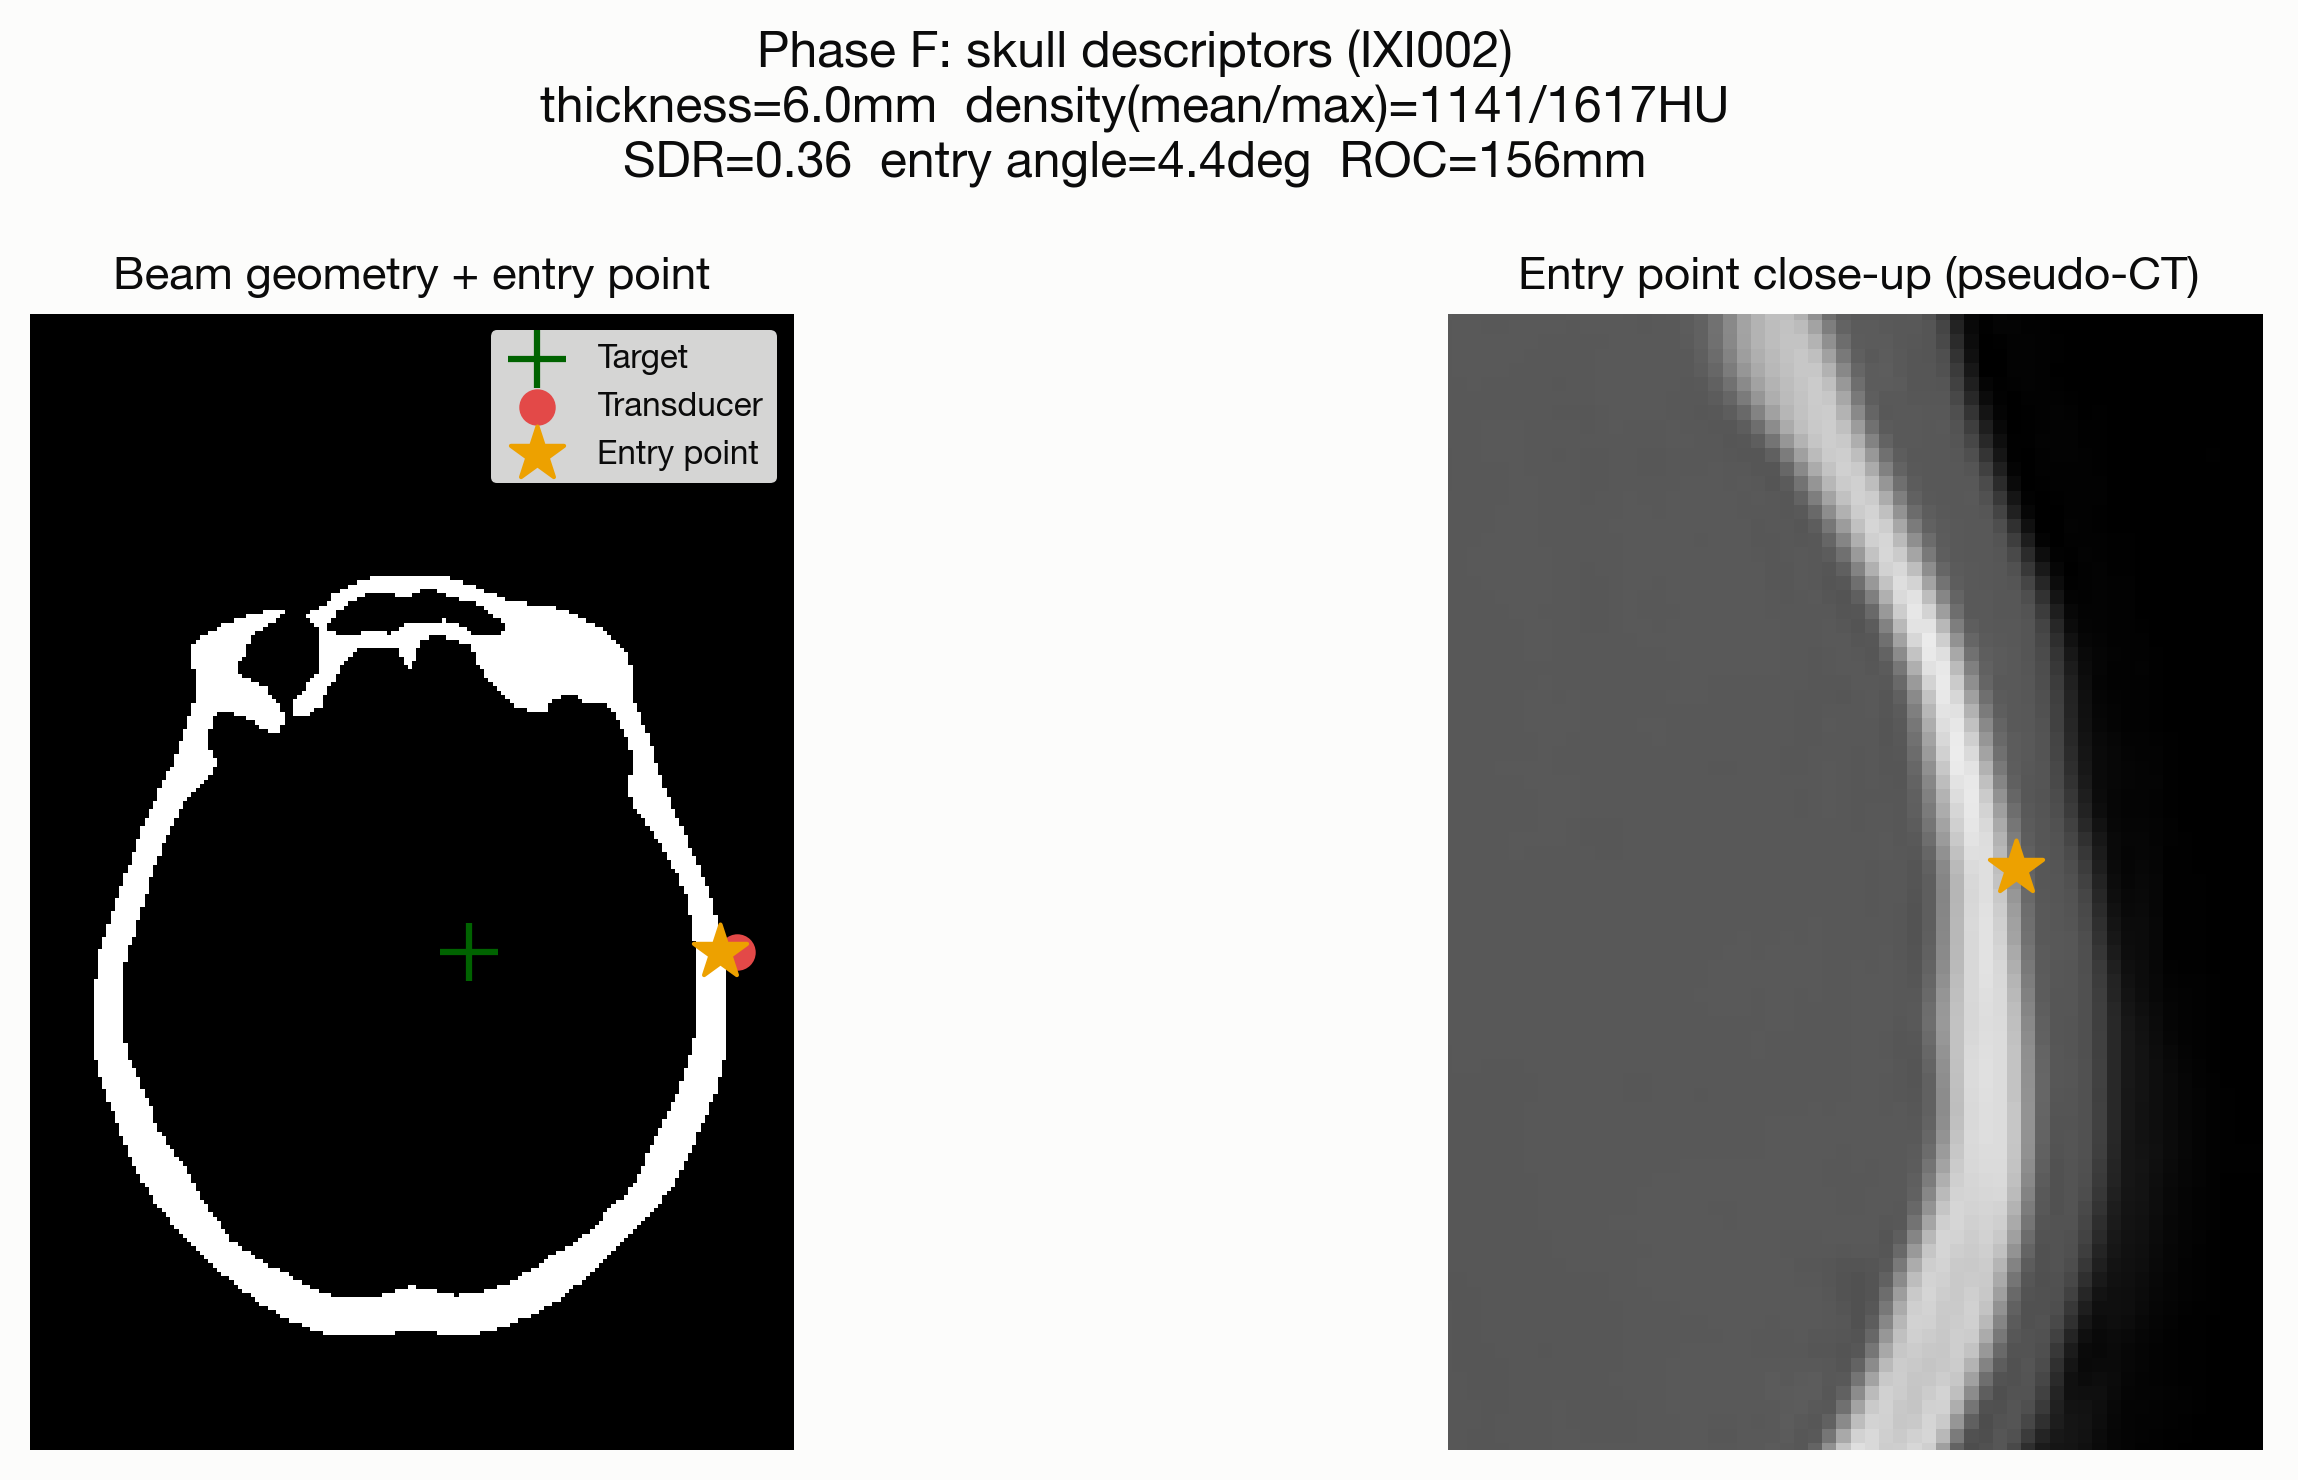
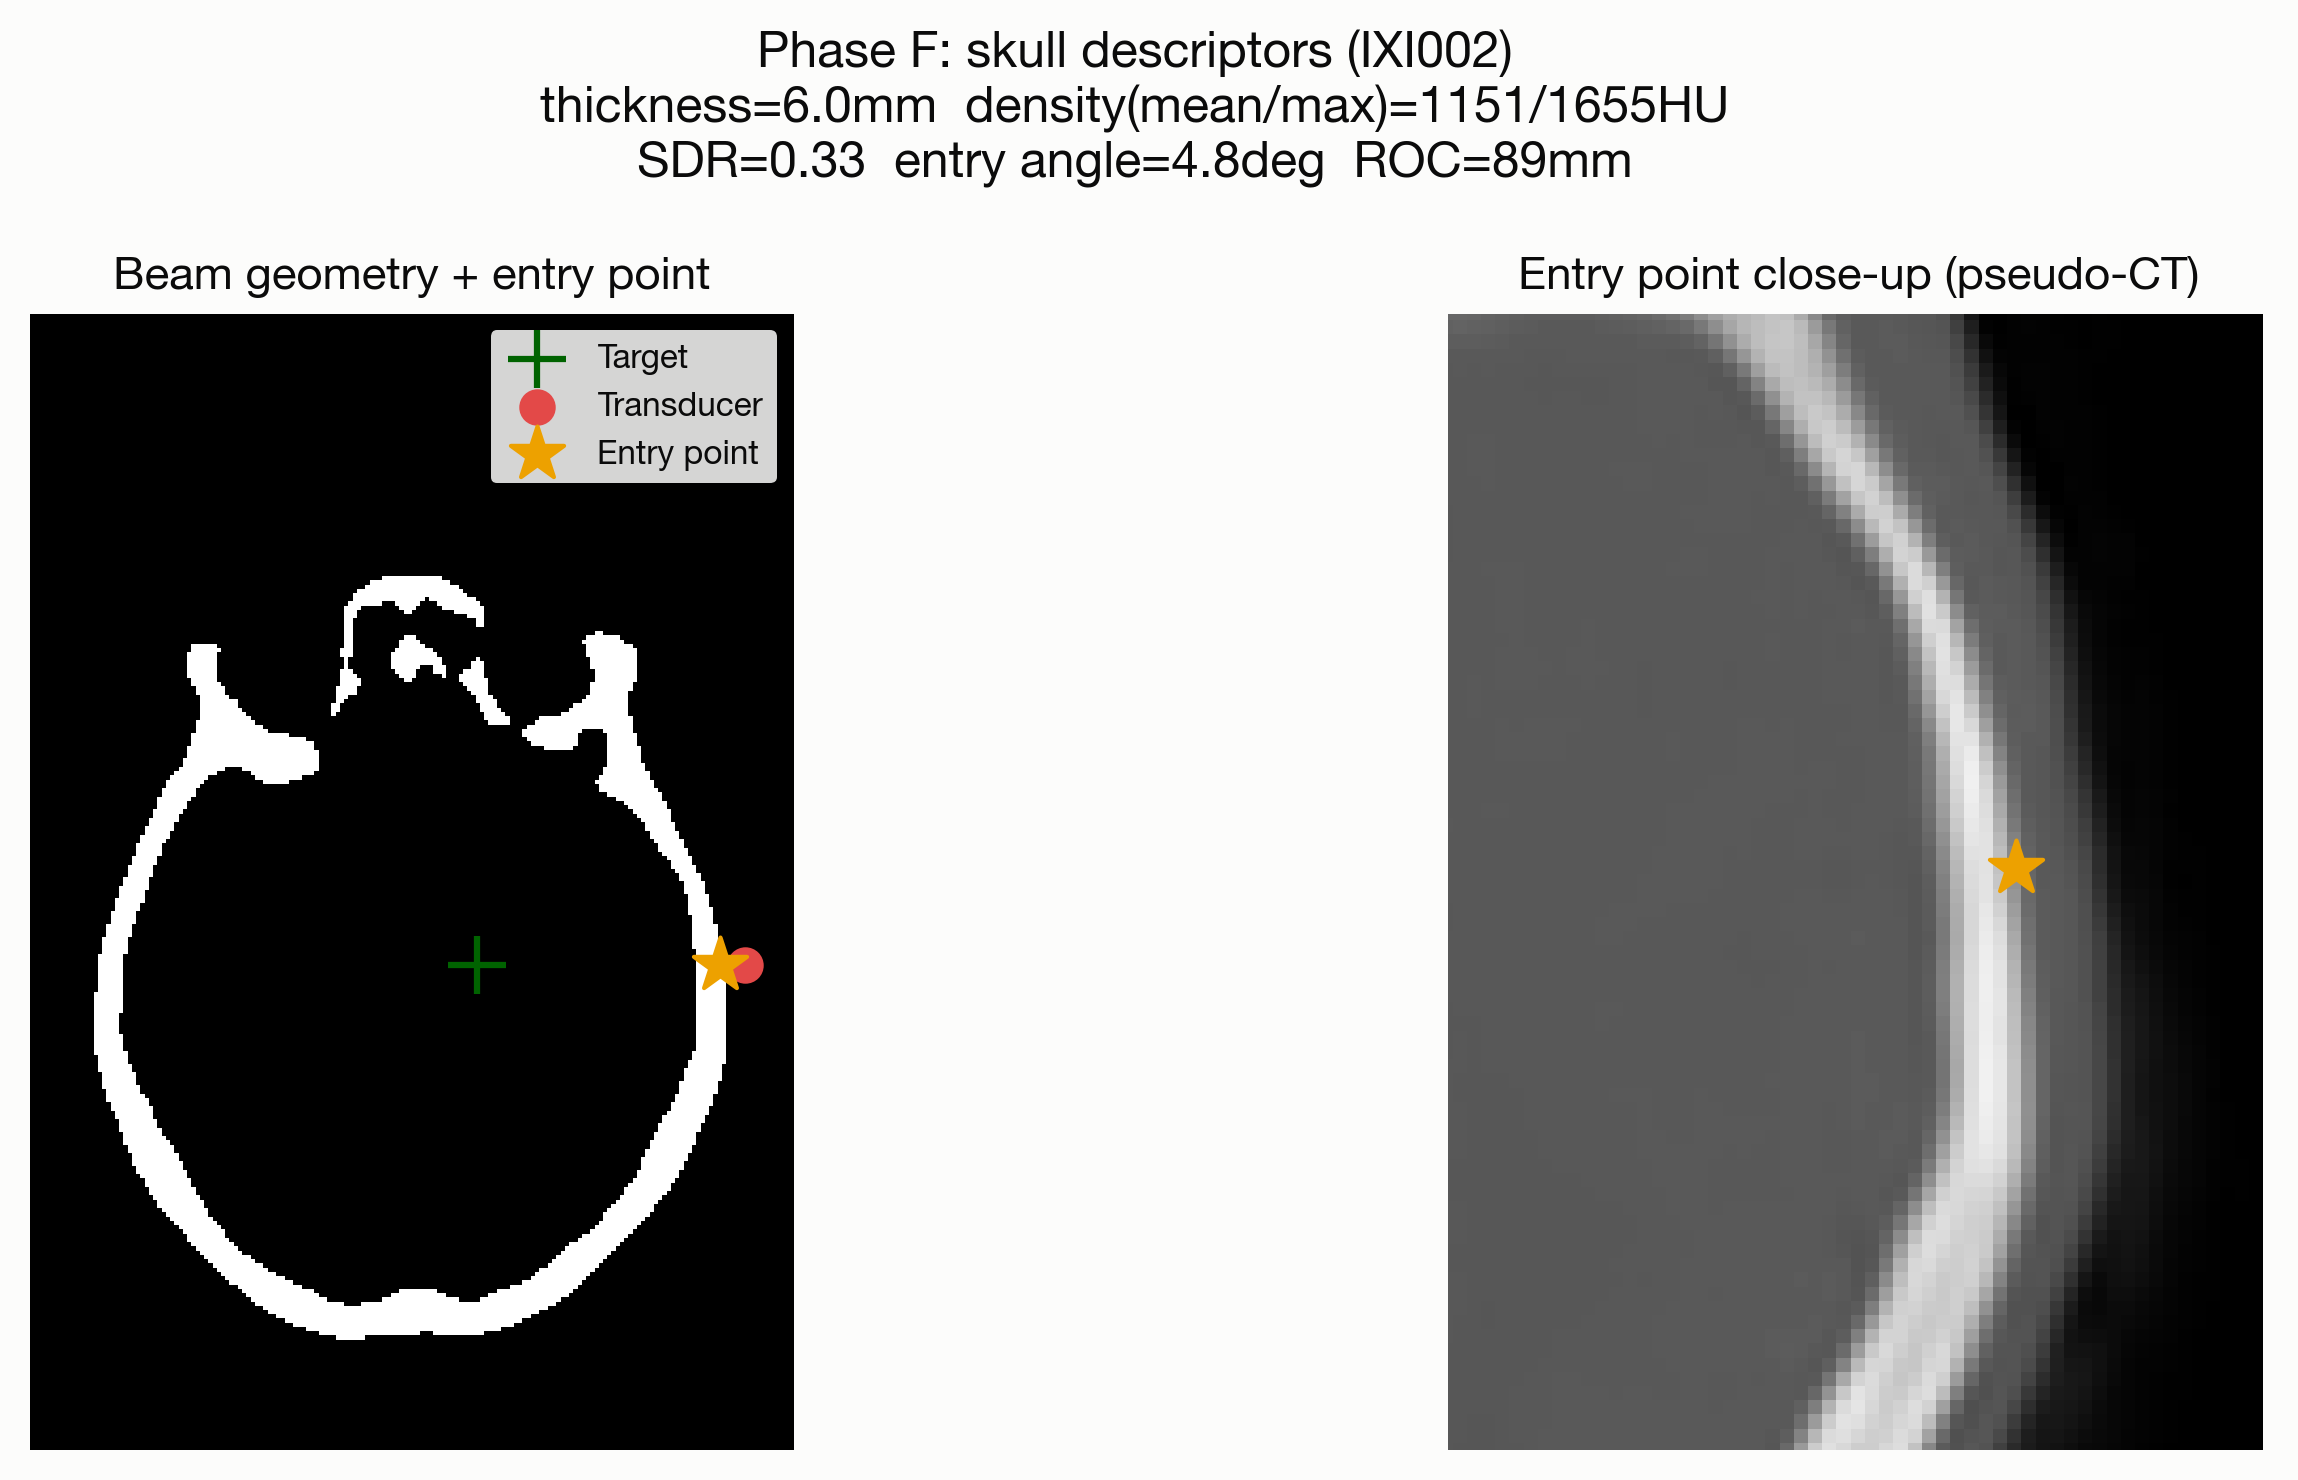
Switch IXI002's full record to the atlas-derived target; fix curvature robustness
Re-ran Phases D-G with the atlas-registered target (previous manual
eyeballed target retired) so IXI002's final record uses the same
automated method the full cohort will use. New result: 4.12mm
targeting error, 57.2% energy loss, 7.37dB insertion loss -- still
physically plausible and the free-field sanity check still passes
(0.0mm geometric offset).

Also fixes a real robustness bug in the curvature estimator: at the
new (slightly different) entry point, the local quadratic surface
fit degenerated to a near-zero coefficient, producing a physically
meaningless 7864mm radius of curvature. The binary skull mask's
outer surface is blocky/staircased at 1mm resolution, so a small
patch is noisy to fit. Widened the fit patch (15mm -> 20mm radius)
and capped the reported radius at 300mm (realistic adult skull ROC
is ~30-300mm) rather than let noise produce implausible outliers.
Result: 89mm, consistent with the earlier nearby estimate of 156mm.

diff --git a/src/fus_targeting/features/skull_descriptors.py b/src/fus_targeting/features/skull_descriptors.py
@@ -47,7 +47,7 @@ def _find_outer_skull_surface_points(skull_mask: np.ndarray, center_voxel: np.nd
     return local_idx + lo
 
 
-def _estimate_curvature(skull_mask: np.ndarray, entry_point: np.ndarray, direction: np.ndarray, patch_radius_mm: float = 15.0) -> float:
+def _estimate_curvature(skull_mask: np.ndarray, entry_point: np.ndarray, direction: np.ndarray, patch_radius_mm: float = 20.0) -> float:
     """Fit a quadratic surface to local outer-skull points near the entry
     point (in a frame aligned with the beam direction) and estimate the mean
     radius of curvature from the fit's second-order coefficients."""
@@ -84,9 +84,18 @@ def _estimate_curvature(skull_mask: np.ndarray, entry_point: np.ndarray, directi
     a, b = coeffs[0], coeffs[1]
 
     mean_curvature = (a + b)  # for a near-flat patch, w ~ a*u^2+b*v^2 -> curvature ~ 2a,2b; a+b is proportional to mean curvature
-    if abs(mean_curvature) < 1e-8:
-        return np.inf
-    return float(1.0 / (2 * abs(mean_curvature)))
+
+    # The outer-skull surface is a binary mask boundary (blocky/staircased
+    # at 1mm voxel resolution, not a smooth surface), so this quadratic fit
+    # is noisy: small differences in patch composition can swing the fit
+    # from "flat" to "very flat" to "numerically ~0", producing physically
+    # meaningless radii (seen: 7864mm at one entry point vs. 156mm a few mm
+    # away at the same anatomical region). Realistic adult skull ROC is
+    # roughly 30-300mm; cap there rather than report noise as signal.
+    max_realistic_roc_mm = 300.0
+    if abs(mean_curvature) < 1.0 / (2 * max_realistic_roc_mm):
+        return max_realistic_roc_mm
+    return float(min(1.0 / (2 * abs(mean_curvature)), max_realistic_roc_mm))
 
 
 def compute_skull_descriptors(
